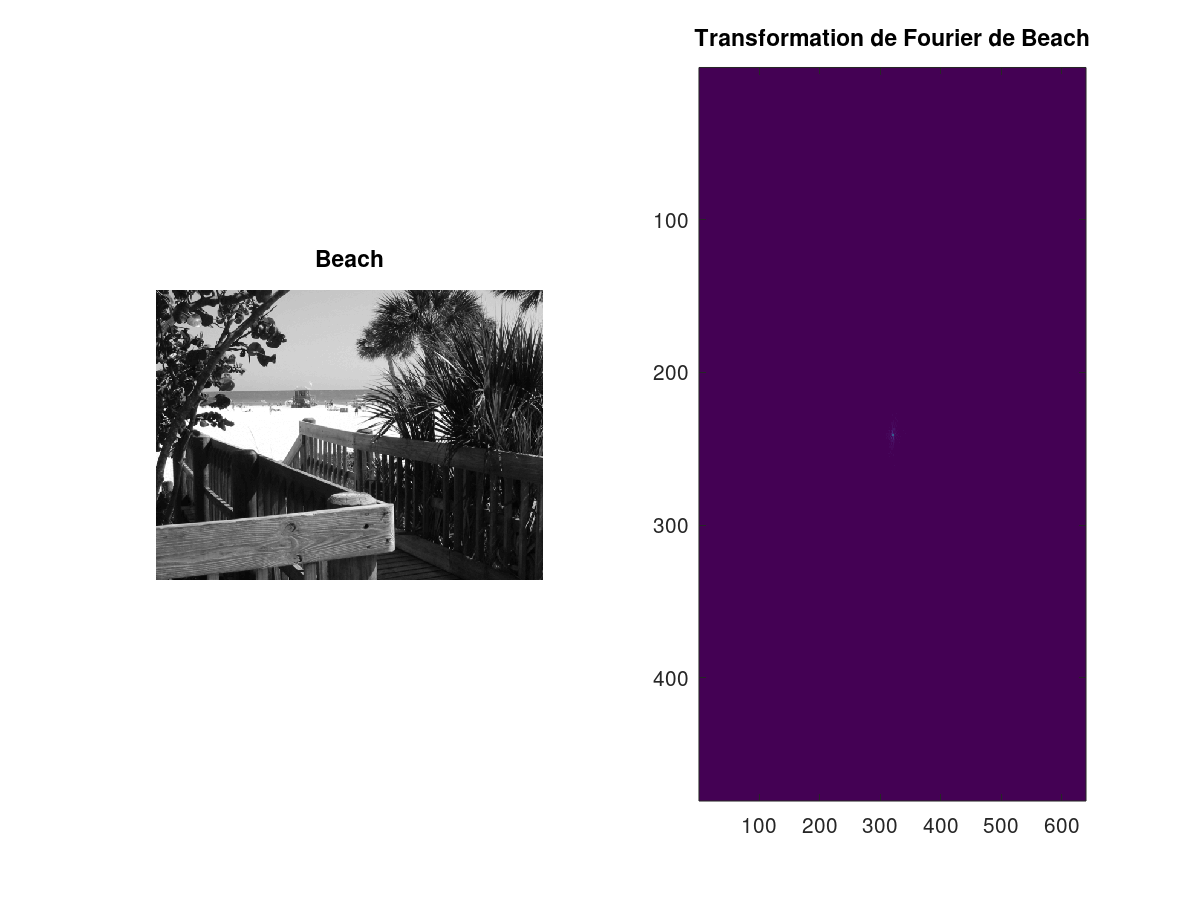
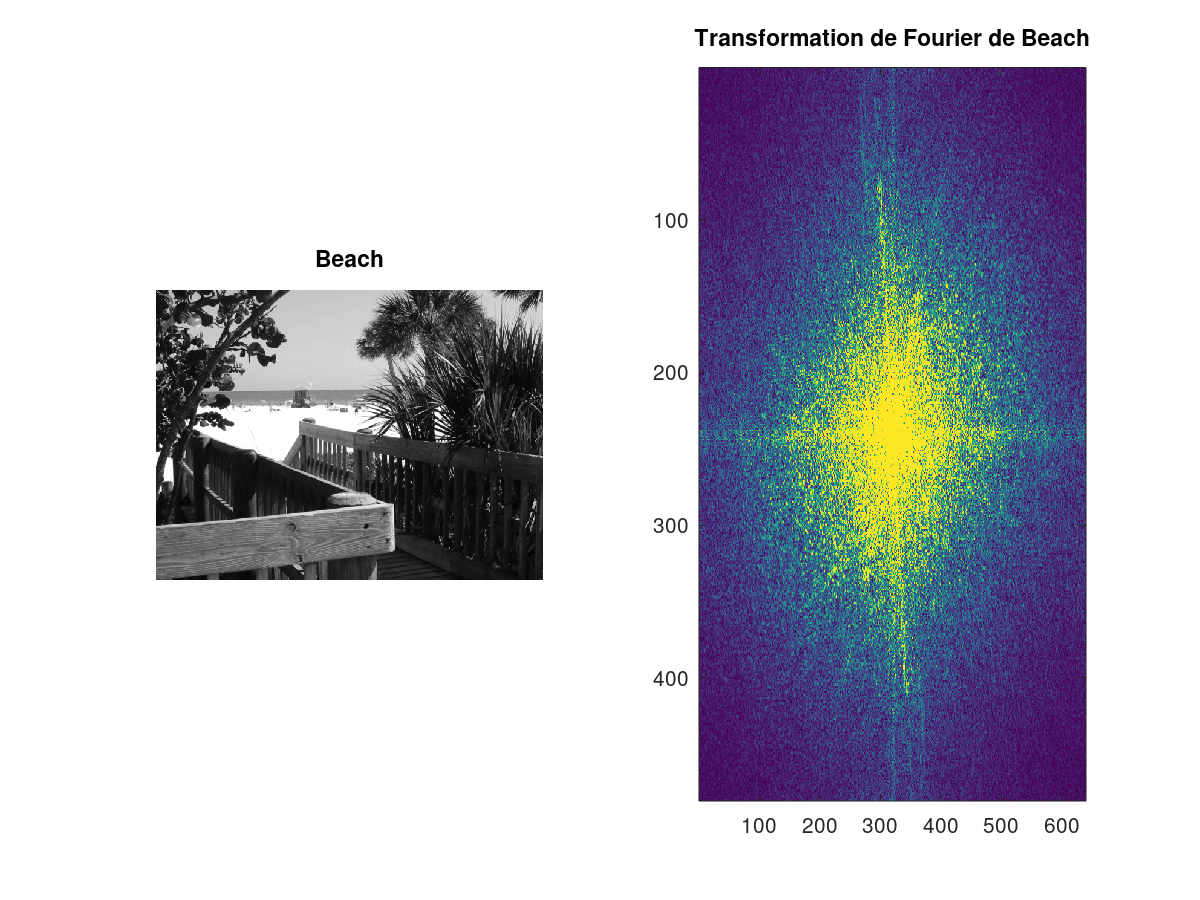
:sparkles: End of part 2

Changed region(s): [[0.5858, 0.0622, 0.925, 0.9022]]

diff --git a/TP5/tp5.m b/TP5/tp5.m
@@ -91,15 +91,15 @@ saveas(f, "output/fourier_components.png");
 
 # 2 - Module et phase
 
-manhattan_fft = fourier(manhattan);
-beach_fft = fourier(beach);
+[manh_fft, magnitude_manh, arg_manh] = ftcomponent(manhattan, true);
+[beach_ff, magnitude_beach, arg_beach] = ftcomponent(beach, true);
 
 figure;
 subplot(1, 2, 1);
 imshow(manhattan);
 title("Manhattan");
 f = subplot(1, 2, 2);
-imagesc(abs(manhattan_fft));
+imagesc(magnitude_manh);
 title("Transformation de Fourier de Manhattan");
 saveas(f, "output/manhattan_fft.png");
 
@@ -108,19 +108,19 @@ subplot(1, 2, 1);
 imshow(beach);
 title("Beach");
 f = subplot(1, 2, 2);
-imagesc(abs(beach_fft));
+imagesc(magnitude_beach);
 title("Transformation de Fourier de Beach");
 saveas(f, "output/beach_fft.png");
 
 
-function combinated = combinate(img1, img2)
-    [ft_img1, mod_img1, phase_img1] = ftcomponent(img1);
-    [ft_img2, mod_img2, phase_img2] = ftcomponent(img2);
+function combinated = combinate(img1, img2, scale)
+    [ft_img1, mod_img1, phase_img1] = ftcomponent(img1, scale);
+    [ft_img2, mod_img2, phase_img2] = ftcomponent(img2, scale);
     combinated = mod_img1.*exp(i*phase_img2);   
 endfunction
 
-combinated_manh_beach_fft = combinate(manhattan, beach);
-combinated_manh_beach_image = ifft2(combinated_manh_beach_fft);
+combinated_manh_beach_fft = combinate(manhattan, beach, true);
+combinated_manh_beach_image = ifft2(combinate(manhattan, beach, false));
 
 figure;
 subplot(2, 2, 1);

diff --git a/TP5/TP5.md b/TP5/TP5.md
@@ -22,9 +22,19 @@ Pour terminer, l'image "*lena*" est une fusion des deux image précédant : la d
 
 ### 2 - Module et phase
 
-La phase permet de mettre en évidence le décalage entre les fréquences, cela permet de determiner à peu près ou se situe notre image.
-Le module quand à lui indique l'intensité.
-Nous combinons le module de Manhattan ainsi que la phase de Beach puis nous appliquons la transfomrée de Fourier inverse afin de retrouver l'image associée. Voici ce que nous obtenons :
+Manhattan : Sur le module de cette image on reconnait bien les deux diagonales caractéristiques propres à l'image et à son décors aux diagonales prononcées (buildings rectangulaires penchés).  
+
+![](output/manhattan_fft.png)
+
+Beach : Sur le module de cette image on reconnait bien :
+- la verticale propre à la démarcation plage/mer ainsi que la barrière en premier plan
+- la diagonale propre à la barrière au centre
+
+![](output/beach_fft.png)
+
+La phase permet de mettre en évidence le décalage entre les fréquences, cela permet de déterminer à peu près où se situe notre image.
+Le module quant à lui indique l'intensité.
+Nous combinons le module de Manhattan ainsi que la phase de Beach puis nous appliquons la transformée de Fourier inverse afin de retrouver l'image associée. Voici ce que nous obtenons :
 
 ![](output/manh_beach_image.png)
 
@@ -33,3 +43,10 @@ Nous pouvons bien :
 - apercevoir les différences de fréquences propres à Manhattan
 
 ### 3 - Filtrage
+
+
+Filtrage passe-bas : seules les basses fréquences sont conservées
+
+
+
+Filtrage passe-haut : seules les basses fréquences sont conservées
